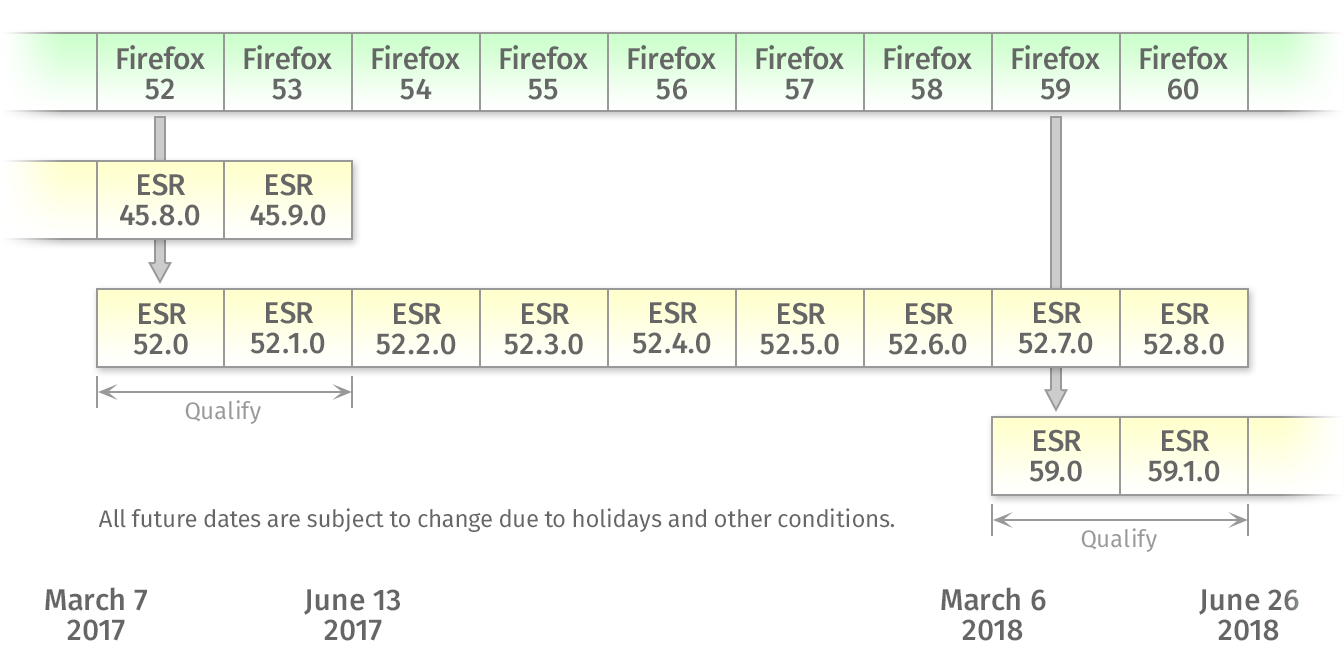
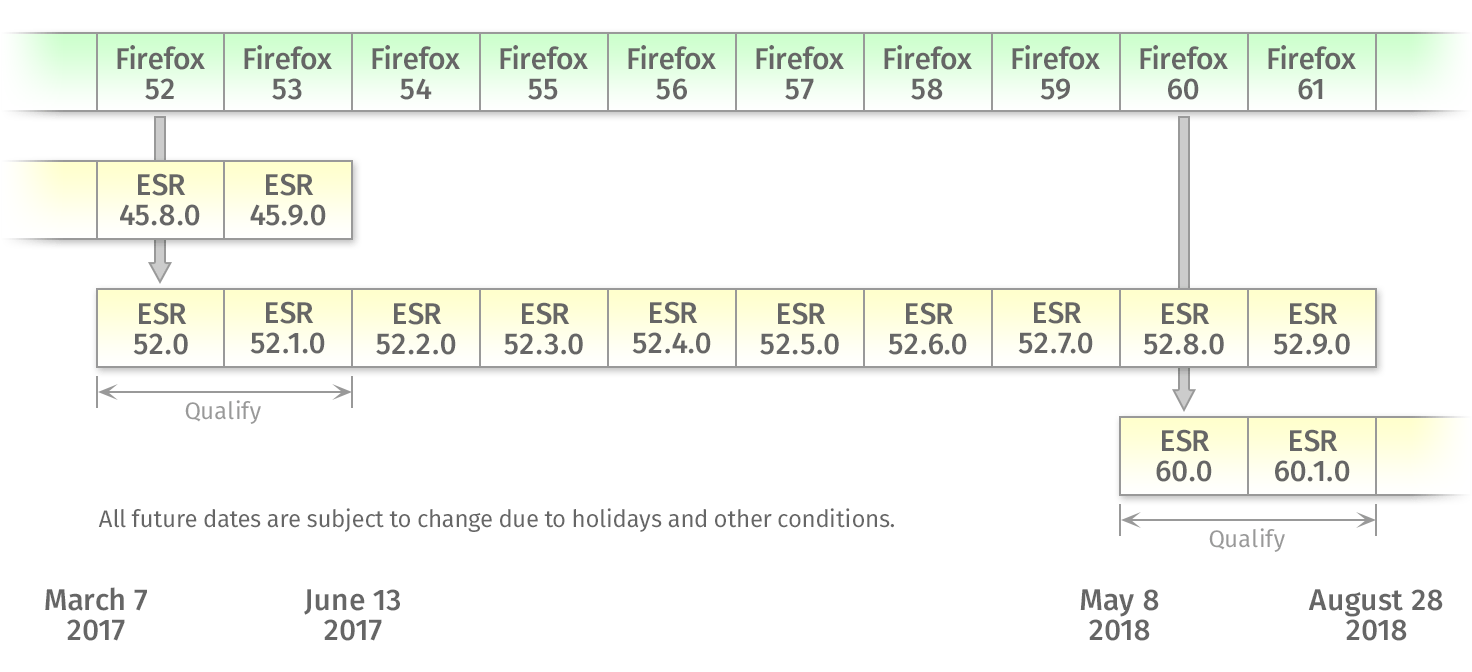
(no bug) Update ESR overview image to reflect new 2018 dates
The next ESR will be 60 instead of 59.

diff --git a/bedrock/firefox/templates/firefox/organizations/organizations.html b/bedrock/firefox/templates/firefox/organizations/organizations.html
@@ -145,7 +145,7 @@
     </div>
     <figure>
       <a href="{{ static('img/firefox/organizations/release-overview-high-res.png') }}">
-        {{ high_res_img('firefox/organizations/release-overview.png', {'alt': _(''), 'width': '672', 'height': '336'}) }}
+        {{ high_res_img('firefox/organizations/release-overview.png', {'alt': _(''), 'width': '736', 'height': '336'}) }}
       </a>
       <figcaption>{{ _('Firefox ESR Release Overview') }}</figcaption>
     </figure>
